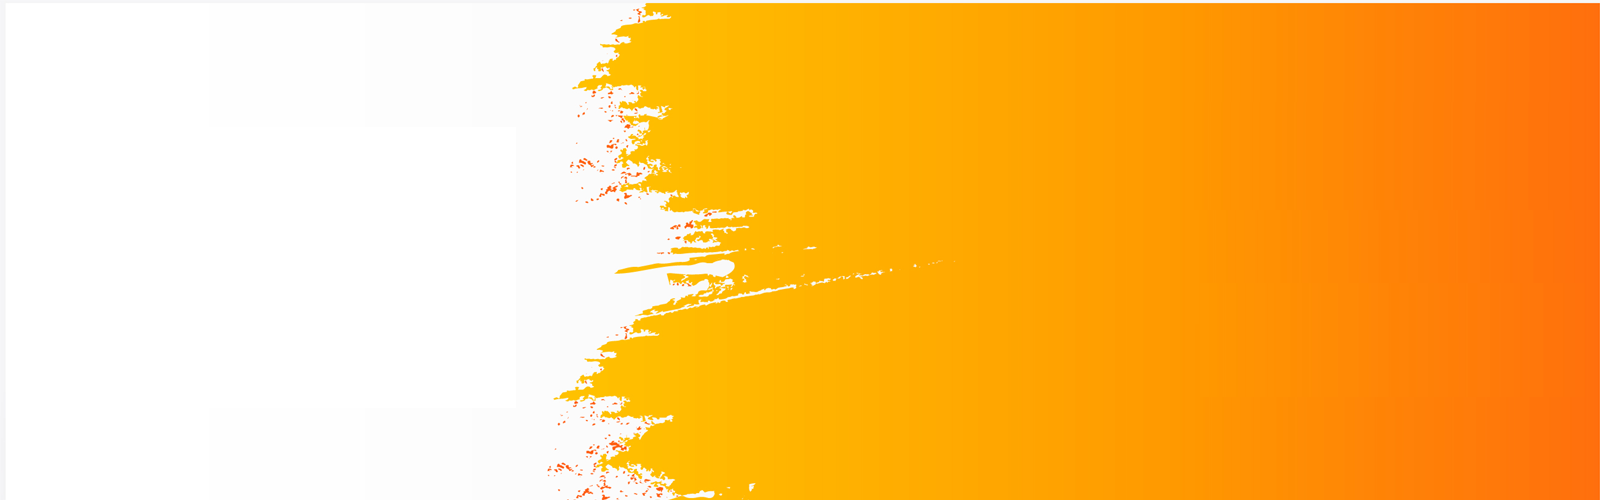
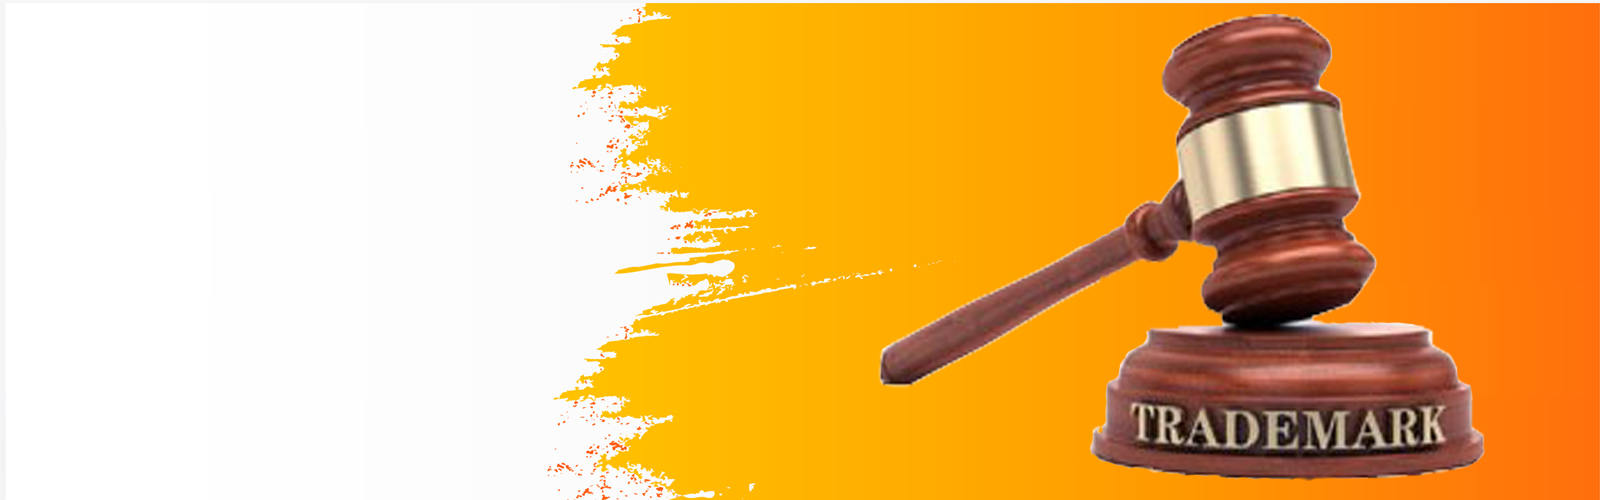
change

Changed region(s): [[0.5312, 0.03, 0.9375, 0.96]]

diff --git a/src/app/home/home.component.html b/src/app/home/home.component.html
@@ -21,7 +21,7 @@
                             </div>
                           </div>
                           <div class="carousel-item">
-                            <img class="d-block w-100" data-src="holder.js/800x400?auto=yes&amp;bg=666&amp;fg=444&amp;text=Second slide" alt="Second slide [800x400]" src="../../assets/images/slider/TRADEMARK.jpg" data-holder-rendered="true">
+                            <img class="d-block w-100" data-src="holder.js/800x400?auto=yes&amp;bg=666&amp;fg=444&amp;text=Second slide" alt="Second slide [800x400]" src="../../assets/images/slider/slider1.png" data-holder-rendered="true">
                             <div class="carousel-caption two d-none d-md-block">
                               <!-- <h5>Second slide label</h5> -->
                               <p>PROTECT YOUR BRAND, SLOGAN AND LOGO AT JUST 1399* (GOVT. FEE EXTRA) </p>
